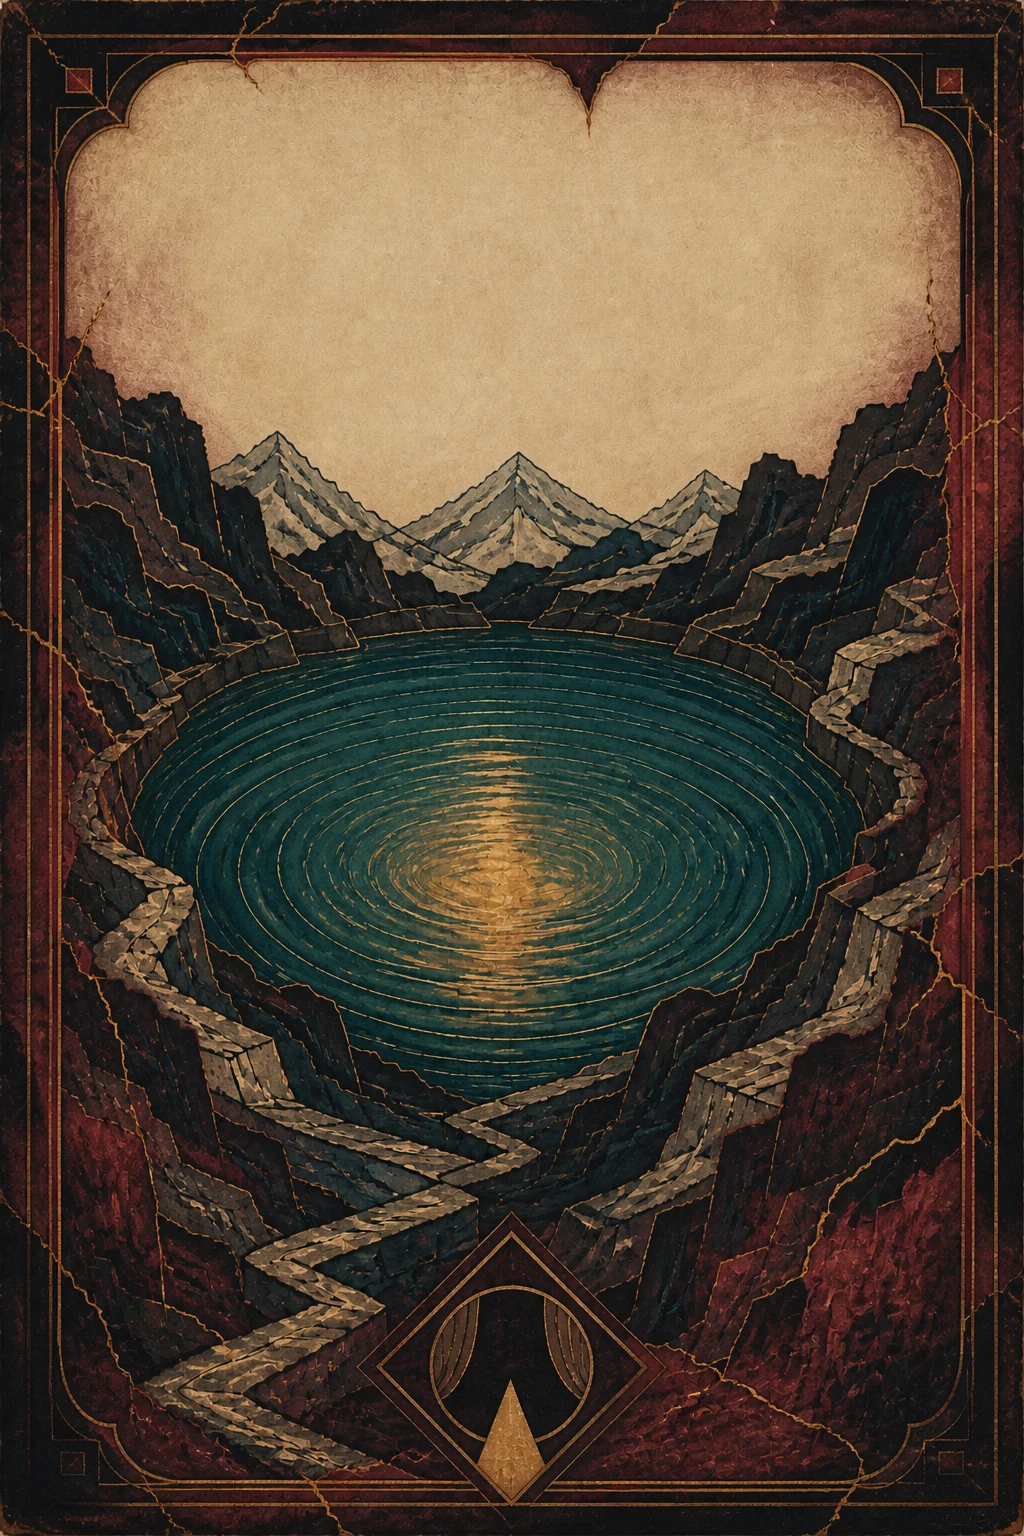
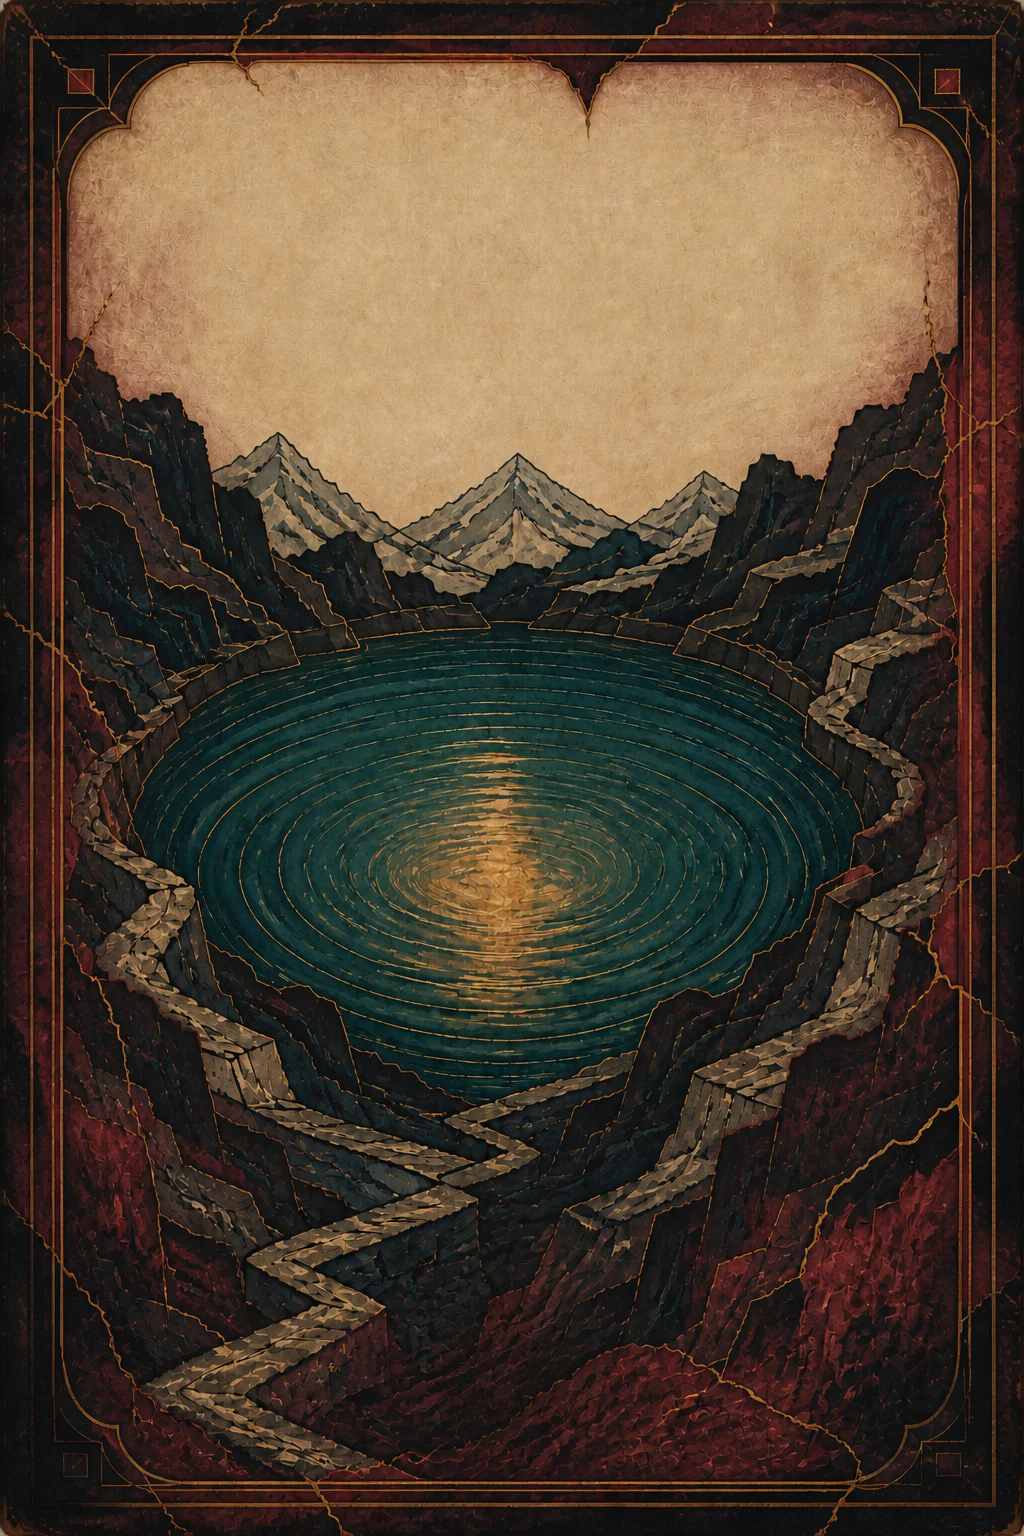
feat(archive): establish 1091 publication system

Changed region(s): [[0.0, 0.0, 1.0, 1.0], [0.0, 0.9688, 0.0312, 1.0]]

diff --git a/src/styles/archive.css b/src/styles/archive.css
@@ -39,6 +39,12 @@ html[data-world="archive"] body {
   font-family: var(--serif);
 }
 
+html[data-world="archive"] .site-main {
+  background:
+    linear-gradient(90deg, transparent 6%, rgb(154 106 50 / 7%) 6.1%, transparent 6.2% 93.8%, rgb(154 106 50 / 7%) 93.9%, transparent 94%),
+    radial-gradient(ellipse at 50% 12%, rgb(208 154 85 / 5%), transparent 34rem);
+}
+
 html[data-world="archive"] .site-header,
 html[data-world="archive"] .site-footer {
   color: var(--archive-paper);
@@ -61,14 +67,7 @@ html[data-world="archive"] .footer-legal {
 }
 
 html[data-world="archive"] .brand-mark {
-  border: 3px double var(--archive-gold);
-  color: var(--archive-candle);
-  background: var(--archive-lacquer);
-}
-
-html[data-world="archive"] .brand-mark::before {
-  border-color: var(--archive-curtain);
-  opacity: 0.7;
+  filter: sepia(0.15) drop-shadow(0 8px 12px rgb(0 0 0 / 32%));
 }
 
 html[data-world="archive"] .main-nav a {
@@ -201,14 +200,10 @@ html[data-world="archive"] .eyebrow {
 
 .archive-ornament {
   display: block;
-  width: 42px;
-  height: 42px;
+  width: 66px;
+  height: 66px;
   margin: 0 auto 22px;
-  border: 3px double var(--archive-gold);
-  color: var(--archive-candle);
-  font-size: 1.1rem;
-  line-height: 35px;
-  transform: rotate(45deg);
+  filter: drop-shadow(0 12px 18px rgb(0 0 0 / 38%));
 }
 
 .archive-home h1 {
@@ -273,7 +268,8 @@ html[data-world="archive"] :is(.text-link, .back-link):hover {
 
   position: relative;
   display: grid;
-  min-height: 540px;
+  aspect-ratio: 2 / 3;
+  min-height: 0;
   overflow: hidden;
   border: 1px solid var(--poster-paper);
   color: var(--archive-ink);
@@ -285,7 +281,8 @@ html[data-world="archive"] :is(.text-link, .back-link):hover {
 }
 
 .archive-poster.is-compact {
-  min-height: 230px;
+  aspect-ratio: 4 / 5;
+  min-height: 0;
 }
 
 .archive-poster__image {
@@ -307,9 +304,18 @@ html[data-world="archive"] :is(.text-link, .back-link):hover {
 }
 
 .archive-poster.has-artwork .archive-poster__title {
-  background: linear-gradient(0deg, rgb(18 11 10 / 88%), transparent 78%);
-  color: var(--archive-paper);
+  background: linear-gradient(180deg, rgb(18 11 10 / 76%), transparent 100%);
   text-shadow: 0 2px 18px rgb(0 0 0 / 80%);
+}
+
+.archive-poster.has-artwork[data-title-tone="light"] .archive-poster__title {
+  color: #f1e2c5;
+}
+
+.archive-poster.has-artwork[data-title-tone="dark"] .archive-poster__title {
+  color: #2d211a;
+  background: linear-gradient(180deg, rgb(226 207 172 / 82%), transparent 100%);
+  text-shadow: 0 1px 12px rgb(239 218 181 / 40%);
 }
 
 .archive-poster.has-artwork .archive-poster__number {
@@ -330,6 +336,14 @@ html[data-world="archive"] :is(.text-link, .back-link):hover {
 .archive-poster::after {
   inset: 18px;
   border: 3px double rgb(125 23 34 / 62%);
+}
+
+.archive-poster.has-artwork::before {
+  border-color: color-mix(in srgb, var(--poster-memory, var(--archive-gold)) 54%, #20120f);
+}
+
+.archive-poster.has-artwork::after {
+  display: none;
 }
 
 .archive-poster--lantern {
@@ -423,11 +437,14 @@ html[data-world="archive"] :is(.text-link, .back-link):hover {
 }
 
 .archive-poster__title {
+  position: absolute;
+  top: 0;
+  left: 0;
   z-index: 3;
   display: grid;
   gap: 6px;
-  align-self: end;
-  padding: 36px;
+  max-width: min(84%, 22rem);
+  padding: 62px 36px 48px;
   text-align: left;
 }
 
@@ -443,11 +460,21 @@ html[data-world="archive"] :is(.text-link, .back-link):hover {
 }
 
 .archive-poster.is-compact .archive-poster__title {
-  padding: 27px;
+  padding: 56px 27px 34px;
 }
 
 .archive-poster.is-compact .archive-poster__title strong {
   font-size: 1.4rem;
+}
+
+.archive-poster__mark {
+  position: absolute;
+  z-index: 3;
+  bottom: 20px;
+  left: 50%;
+  width: clamp(50px, 15%, 76px);
+  filter: drop-shadow(0 8px 16px rgb(0 0 0 / 48%));
+  transform: translateX(-50%);
 }
 
 .archive-notice-strip {
@@ -610,7 +637,7 @@ html[data-world="archive"] .detail {
 }
 
 .archive-detail-header .archive-poster {
-  min-height: 440px;
+  min-height: 0;
 }
 
 html[data-world="archive"] :is(.fact-grid, .archive-credit-list) {
@@ -841,7 +868,7 @@ html[data-world="archive"] :is(a, button, input, select, textarea):focus-visible
   }
 
   .archive-poster {
-    min-height: 420px;
+    min-height: 0;
   }
 
   .archive-notice-strip > div,
@@ -862,7 +889,7 @@ html[data-world="archive"] :is(a, button, input, select, textarea):focus-visible
   }
 
   .archive-performance-list .archive-poster {
-    min-height: 270px;
+    min-height: 0;
   }
 
   .archive-performance-list__date {

diff --git a/src/data/production-artworks.ts b/src/data/production-artworks.ts
@@ -1,7 +1,10 @@
 import type { ImageMetadata } from 'astro';
 import cagedFireFront from '../assets/images/productions/caged-fire-front.webp';
 import derRingArchive from '../assets/images/productions/der-ring-archive.webp';
+import odeAuTriompheArchive from '../assets/images/productions/ode-au-triomphe-archive.webp';
+import oneHundredAndOneDaysArchive from '../assets/images/productions/one-hundred-and-one-days-archive.webp';
 import secondSnowFront from '../assets/images/productions/second-snow-front.webp';
+import theCarnivalArchive from '../assets/images/productions/the-carnival-archive.webp';
 import uncrownedFront from '../assets/images/productions/uncrowned-front.webp';
 import type { ProductionId } from './productions/index.ts';
 import type { SiteWorld } from './site-routes.ts';
@@ -11,13 +14,14 @@ export interface ProductionArtwork {
   focalPoint: `${number}% ${number}%`;
   safeCrop: 'portrait-center';
   memoryColor: `#${string}`;
+  titleTone: 'light' | 'dark';
   altIntent: 'decorative-production-art';
   pollution: {
     misregisterLayer: string;
     darkenZones: ReadonlyArray<'top' | 'sides' | 'lower' | 'corners'>;
     breachEdge: 'lower-right' | 'upper-center' | 'side-seam';
   };
-  rights: 'project-generated-art-00' | 'project-generated-code-03';
+  rights: 'project-generated-art-00' | 'project-generated-code-03' | 'project-generated-code-04';
 }
 
 type ProductionArtworkRegistry = Partial<
@@ -31,6 +35,7 @@ const productionArtworkRegistry: ProductionArtworkRegistry = {
       focalPoint: '50% 59%',
       safeCrop: 'portrait-center',
       memoryColor: '#b7c2c8',
+      titleTone: 'light',
       altIntent: 'decorative-production-art',
       pollution: {
         misregisterLayer: 'cold-silver-beam',
@@ -46,6 +51,7 @@ const productionArtworkRegistry: ProductionArtworkRegistry = {
       focalPoint: '50% 62%',
       safeCrop: 'portrait-center',
       memoryColor: '#d8994d',
+      titleTone: 'light',
       altIntent: 'decorative-production-art',
       pollution: {
         misregisterLayer: 'amber-voice',
@@ -61,6 +67,7 @@ const productionArtworkRegistry: ProductionArtworkRegistry = {
       focalPoint: '50% 52%',
       safeCrop: 'portrait-center',
       memoryColor: '#d3a7b4',
+      titleTone: 'light',
       altIntent: 'decorative-production-art',
       pollution: {
         misregisterLayer: 'mauve-horizon',
@@ -76,13 +83,62 @@ const productionArtworkRegistry: ProductionArtworkRegistry = {
       focalPoint: '50% 64%',
       safeCrop: 'portrait-center',
       memoryColor: '#1f666c',
+      titleTone: 'dark',
       altIntent: 'decorative-production-art',
       pollution: {
         misregisterLayer: 'lake-gold',
         darkenZones: ['top', 'sides'],
         breachEdge: 'lower-right',
       },
-      rights: 'project-generated-art-00',
+      rights: 'project-generated-code-04',
+    },
+  },
+  'one-hundred-and-one-days': {
+    archive: {
+      source: oneHundredAndOneDaysArchive,
+      focalPoint: '50% 48%',
+      safeCrop: 'portrait-center',
+      memoryColor: '#d28747',
+      titleTone: 'light',
+      altIntent: 'decorative-production-art',
+      pollution: {
+        misregisterLayer: 'dusk-orange-fracture',
+        darkenZones: ['sides', 'lower'],
+        breachEdge: 'side-seam',
+      },
+      rights: 'project-generated-code-04',
+    },
+  },
+  'the-carnival': {
+    archive: {
+      source: theCarnivalArchive,
+      focalPoint: '50% 51%',
+      safeCrop: 'portrait-center',
+      memoryColor: '#df9d42',
+      titleTone: 'light',
+      altIntent: 'decorative-production-art',
+      pollution: {
+        misregisterLayer: 'ember-procession',
+        darkenZones: ['top', 'sides'],
+        breachEdge: 'upper-center',
+      },
+      rights: 'project-generated-code-04',
+    },
+  },
+  'ode-au-triomphe': {
+    archive: {
+      source: odeAuTriompheArchive,
+      focalPoint: '50% 47%',
+      safeCrop: 'portrait-center',
+      memoryColor: '#214b8d',
+      titleTone: 'light',
+      altIntent: 'decorative-production-art',
+      pollution: {
+        misregisterLayer: 'cobalt-gold-axis',
+        darkenZones: ['corners', 'lower'],
+        breachEdge: 'upper-center',
+      },
+      rights: 'project-generated-code-04',
     },
   },
 };
